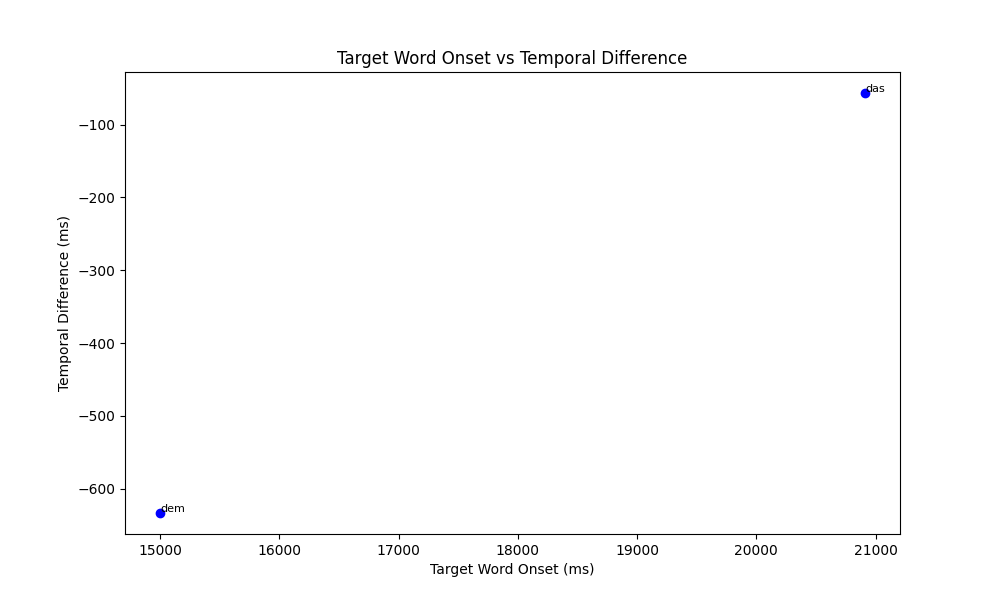
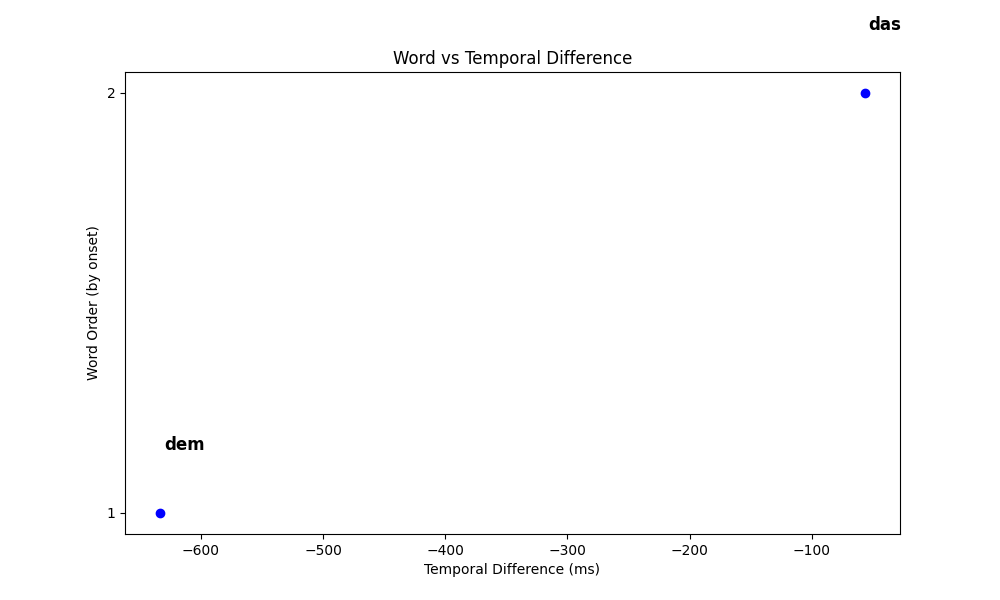
revisions

diff --git a/main.py b/main.py
@@ -1,3 +1,4 @@
+
 import argparse
 import os
 import webvtt
@@ -8,19 +9,21 @@ import matplotlib.pyplot as plt
 
 from audio_processing import transcribe_audio
 from video_processing import detect_multiple_gesture_apexes
-from alignment_analysis import extract_target_word_onsets, calculate_alignment
+from alignment_analysis import extract_word_of_interest_onsets, calculate_alignment
 from video_editing import merge_audio_video, add_captions, signal_gesture_peaks
 
-def process_pair(audio_path, video_path, model_path, output_dir, max_time_diff):
+def process_pair(audio_path, video_path, model_path, output_dir, max_time_diff, words_of_interest):
     '''
     Processes a matching audio and video file pair.
-    1) Transcribes audio and extracts target word onsets.
-    2) Detects gesture apex(es).
-    3) Calculates alignment.
-    4) Exports CSV alignment data.
-    5) 
-    6) Merges audio/video, adds captions, signals gesture peaks.
-    7) Now also exports a plain text transcription and a WebVTT file.
+    # 1. Transcribe audio
+    # 2. Extract word onsets
+    # 3. Detect gesture apexes
+    # 4. Compute alignment differences
+    # 5. Prepare context for each word onset
+    # 6. Plot alignment differences
+    # 7. Merge audio into video
+    # 8. Add captions
+    # 9. Signal gesture peaks on video
     '''
     
     # Step 1: Transcribe audio
@@ -78,7 +81,7 @@ def process_pair(audio_path, video_path, model_path, output_dir, max_time_diff):
     print(f"WebVTT captions saved to {vtt_path}")
     
     # Step 2: Extract (word, onset) pairs
-    word_onsets = extract_target_word_onsets(transcription_results)
+    word_onsets = extract_word_of_interest_onsets(transcription_results, words_of_interest)
     
     # Step 3: Detect one or multiple gesture apexes
     gesture_apex_times = detect_multiple_gesture_apexes(video_path)  
@@ -98,22 +101,22 @@ def process_pair(audio_path, video_path, model_path, output_dir, max_time_diff):
         for segment in transcription_results if 'result' in segment and segment['result']
     ]
 
-    for target_word, onset_time in word_onsets:
+    for word_of_interest, onset_time in word_onsets:
         matched_context = None
 
         # Find the segment where the target word appears
         for start_time, end_time, sentence in transcript_chunks:
             if start_time <= onset_time <= end_time:
                 words = sentence.split()
-                if target_word in words:
-                    index = words.index(target_word)
+                if word_of_interest in words:
+                    index = words.index(word_of_interest)
                     prev_word = words[index - 1] if index > 0 else ""
                     next_word = words[index + 1] if index < len(words) - 1 else ""
-                    matched_context = f"{prev_word} {target_word} {next_word}".strip()
+                    matched_context = f"{prev_word} {word_of_interest} {next_word}".strip()
                     break  # Stop at the first valid match
 
         if not matched_context:
-            matched_context = target_word  # Fallback if no match is found
+            matched_context = word_of_interest  # Fallback if no match is found
 
         # Find the closest gesture apex
         available_apexes = [
@@ -130,11 +133,11 @@ def process_pair(audio_path, video_path, model_path, output_dir, max_time_diff):
             alignment_diff = None
 
         df_rows.append({
-            'target_word': target_word,
-            'target_word_onset': onset_time,
+            'word_of_interest': word_of_interest,
+            'word_of_interest_onset': onset_time,
             'gesture_apex': nearest_apex,
             'alignment_difference': alignment_diff,
-            'target_word_context': matched_context
+            'word_of_interest_context': matched_context
         })
     
     # Convert to a DataFrame
@@ -145,40 +148,72 @@ def process_pair(audio_path, video_path, model_path, output_dir, max_time_diff):
     df.to_csv(csv_path, index=False)
     print(f"Alignment data saved to {csv_path}")
     
-    # Plot and save histogram.
+    # Step 6: Plot
+
+    # Filter rows with valid alignment differences
+    df = df[df['alignment_difference'].notna()].copy()
+
+    # Ensure required column is present
+    if 'word_of_interest_onset' not in df.columns:
+        raise KeyError("'word_of_interest_onset' column is missing from the dataframe.")
+
+    # Drop rows with missing onset values
+    df = df[df['word_of_interest_onset'].notna()].copy()
+
+    # Sort by word onset to assign consistent numeric order
+    df = df.sort_values('word_of_interest_onset').reset_index(drop=True)
+    df['word_order'] = range(1, len(df) + 1)
+
+    # Check that word_order has been successfully created
+    if 'word_order' not in df.columns:
+        raise KeyError("Failed to create 'word_order' column.")
+
+    # Plot
     plt.figure(figsize=(10, 6))
-    plt.hist(df['alignment_difference'], bins=10, edgecolor='black')
-    plt.title('Distribution of Temporal Differences')
-    plt.xlabel('Temporal Difference (ms)')
-    plt.ylabel('Frequency')
-    hist_path = os.path.join(output_dir, f"{base_name}_hist.png")
-    plt.savefig(hist_path)
-    plt.close()
-    
-    # Scatter plot.
-    plt.figure(figsize=(10, 6))
-    plt.scatter(df['target_word_onset'], df['alignment_difference'], c='blue')
-        
+    plt.scatter(df['alignment_difference'], df['word_order'], c='blue')
+
+    # Add text labels with reduced padding
     for i, row in df.iterrows():
         plt.text(
-            row['target_word_onset'] + 1.5,
-            row['alignment_difference'] + 1.5,
-            row['target_word'],
-            fontsize=8
+            row['alignment_difference'] + 0.05,  # X offset
+            row['word_order'] + 0.02,            # Y offset
+            row['word_of_interest'],
+            fontsize=13
         )
 
-    plt.title('Target Word Onset vs Temporal Difference')
-    plt.xlabel('Target Word Onset (ms)')
-    plt.ylabel('Temporal Difference (ms)')
-    scatter_path = os.path.join(output_dir, f"{base_name}_scatter.png")
-    plt.savefig(scatter_path)
+    # Add padding to axis limits
+    x_range = df['alignment_difference'].max() - df['alignment_difference'].min()
+    y_range = df['word_order'].max() - df['word_order'].min()
+
+    x_padding = x_range * 0.06  # 6% of range on each side
+    y_padding = y_range * 0.1   # 10% of range on each side
+
+    plt.xlim(df['alignment_difference'].min() - x_padding,
+             df['alignment_difference'].max() + x_padding)
+
+    plt.ylim(df['word_order'].min() - y_padding,
+             df['word_order'].max() + y_padding)
+
+    # Axis labels
+    plt.xlabel('Time Difference (Apex Onset - Pronoun Onset) in ms', fontsize=14)
+    plt.ylabel('Pronoun-Gesture Pair', fontsize=14)
+    
+    # Y-ticks: map word_order to itself
+    plt.yticks(df['word_order'], df['word_order'])
+
+    # Title with padding below
+    plt.title('Temporal Alignment of Gestures and Pronouns', pad=20, fontsize=16)
+
+    scatterplot_path = os.path.join(output_dir, f"{base_name}_scatterplot.png")
+    plt.tight_layout()
+    plt.savefig(scatterplot_path)
     plt.close()
     
-    # Step 6: Merge audio into video.
+    # Step 7: Merge audio into video.
     merged_video_path = os.path.join(output_dir, f"{base_name}_merged.mp4")
     merge_audio_video(video_path, audio_path, merged_video_path)
     
-    # Step 7: Add captions
+    # Step 8: Add captions
     captions = []
     for segment in transcription_results:
         if 'result' in segment and segment['result']:
@@ -190,7 +225,7 @@ def process_pair(audio_path, video_path, model_path, output_dir, max_time_diff):
     captioned_video_path = os.path.join(output_dir, f"{base_name}_captioned.mp4")
     add_captions(merged_video_path, captions, captioned_video_path)
     
-    # Step 7: Signal gesture peaks on the video.
+    # Step 9: Signal gesture peaks on the video.
     final_video_path = os.path.join(output_dir, f"{base_name}_final.mp4")
     signal_gesture_peaks(captioned_video_path, gesture_apex_times, final_video_path)
     
@@ -205,6 +240,7 @@ def parse_arguments():
     parser.add_argument('--audio_folder', required=True, help='Path to the folder containing audio files (WAV format)')
     parser.add_argument('--video_folder', required=True, help='Path to the folder containing video files (e.g. MP4)')
     parser.add_argument('--model', required=True, help='Path to the Vosk model directory')
+    parser.add_argument('--words_of_interest', required=True, help='Comma-separated list of target words (e.g. "this,that,these,those")')
     parser.add_argument('--output', required=True, help='Output directory for processed files')
     parser.add_argument('--max_time_diff', type=int, default=2000, help='Maximum time difference (ms) between target word onset and gesture apex')  
     return parser.parse_args()
@@ -227,7 +263,7 @@ def main():
         if not os.path.exists(video_file):
             logging.warning(f"Matching video file for {base_name} not found. Skipping.")
             continue
-        process_pair(audio_file, video_file, args.model, args.output, args.max_time_diff)
+        process_pair(audio_file, video_file, args.model, args.output, args.max_time_diff, args.words_of_interest.split(','))
     
 if __name__ == '__main__':
     main()

diff --git a/alignment_analysis.py b/alignment_analysis.py
@@ -1,5 +1,5 @@
 
-def extract_target_word_onsets(results, words_of_interest):
+def extract_word_of_interest_onsets(results, words_of_interest):
     """
     Extracts the onset times of demonstrative pronouns from the recogniser results,
     returning a list of (word, onset) tuples.
@@ -32,4 +32,3 @@ def calculate_alignment(demonstrative_onsets, gesture_apex_times):
         else:
             alignments.append(None)
     return alignments
-
